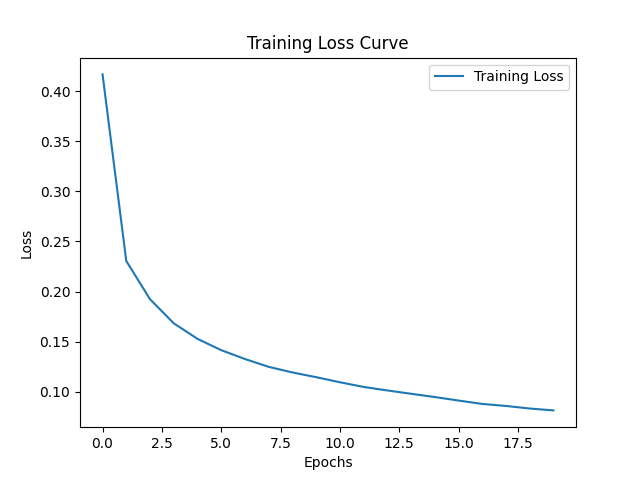
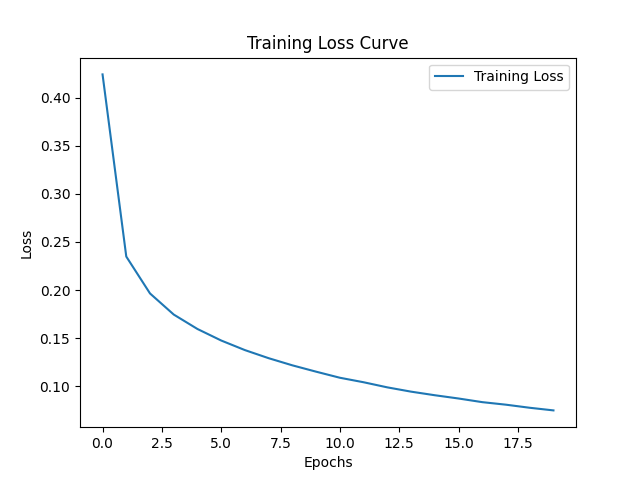
Fix Gaussian noise scale in training data augmentation

diff --git a/mnist_mlp1.py b/mnist_mlp1.py
@@ -21,7 +21,7 @@ x_test = x_test.reshape((x_test.shape[0], 784)).astype('float32') / 255
 
 # Add Gaussian noise to training data only
 np.random.seed(0)
-train_noise = np.random.normal(loc=0.0, scale=0.1, size=x_train.shape)
+train_noise = np.random.normal(loc=0.0, scale=0.08, size=x_train.shape)
 x_train_noisy = np.clip(x_train + train_noise)
 
 y_train_ohe = one_hot_encoder(y_train)
